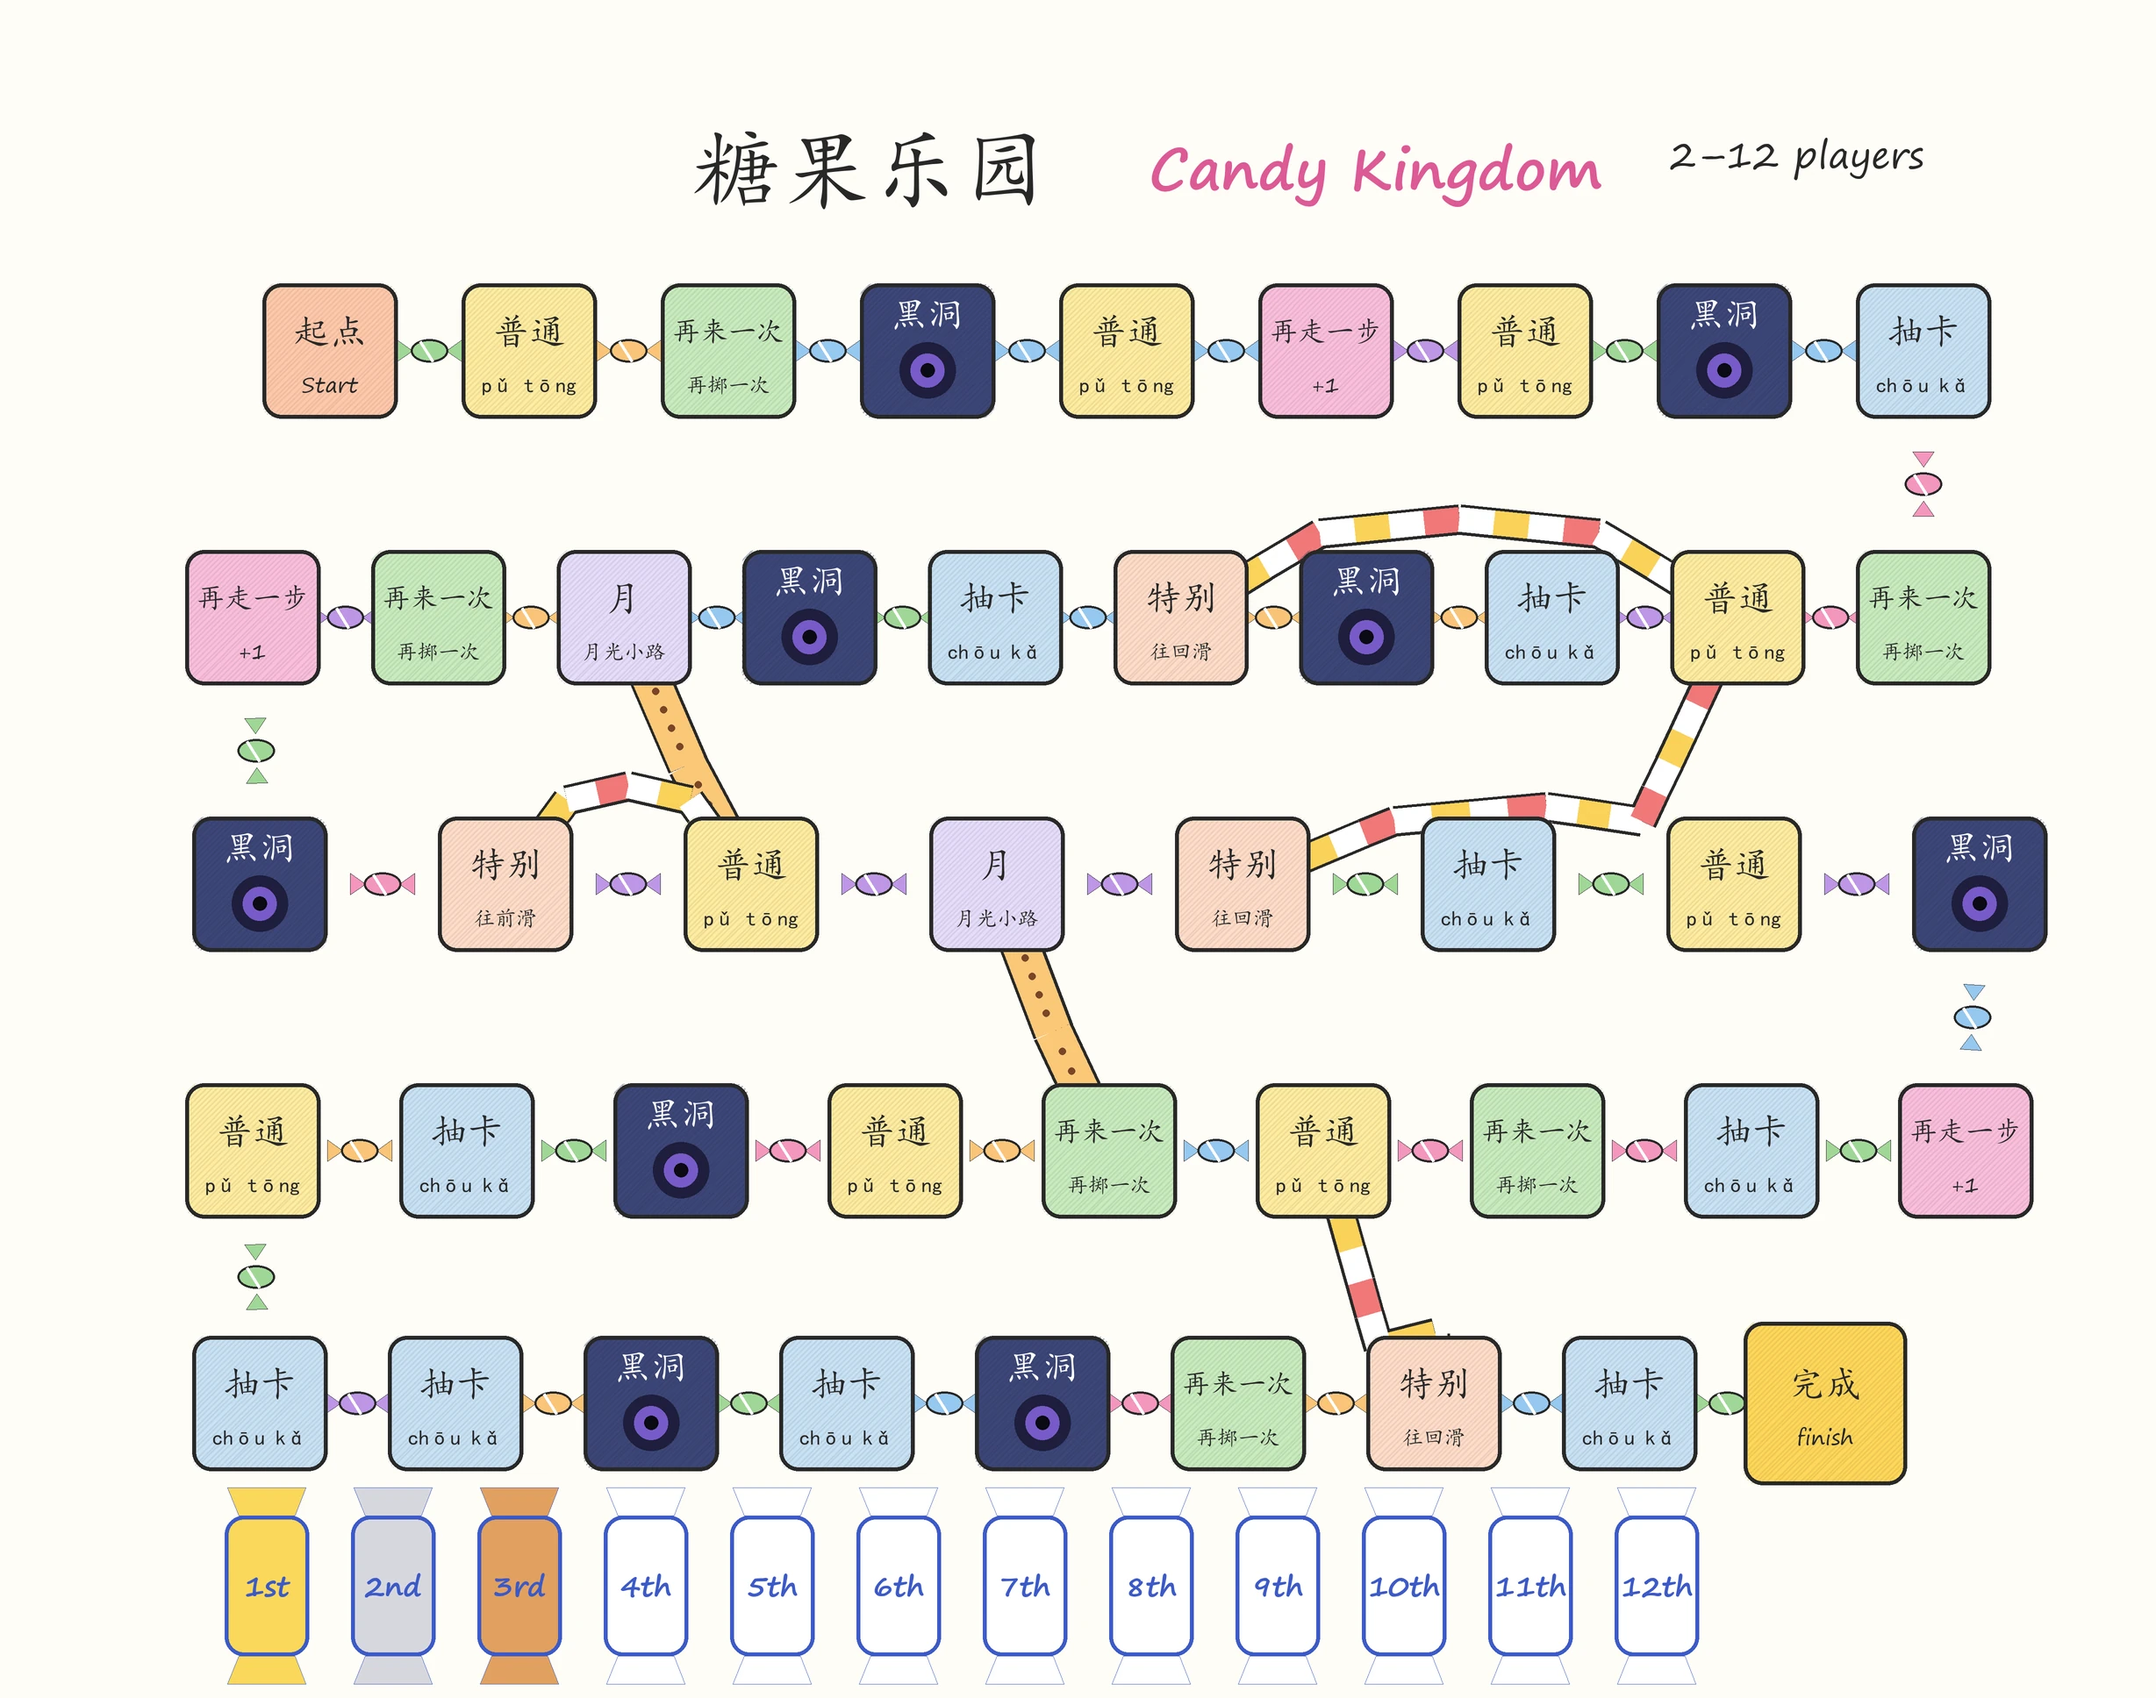
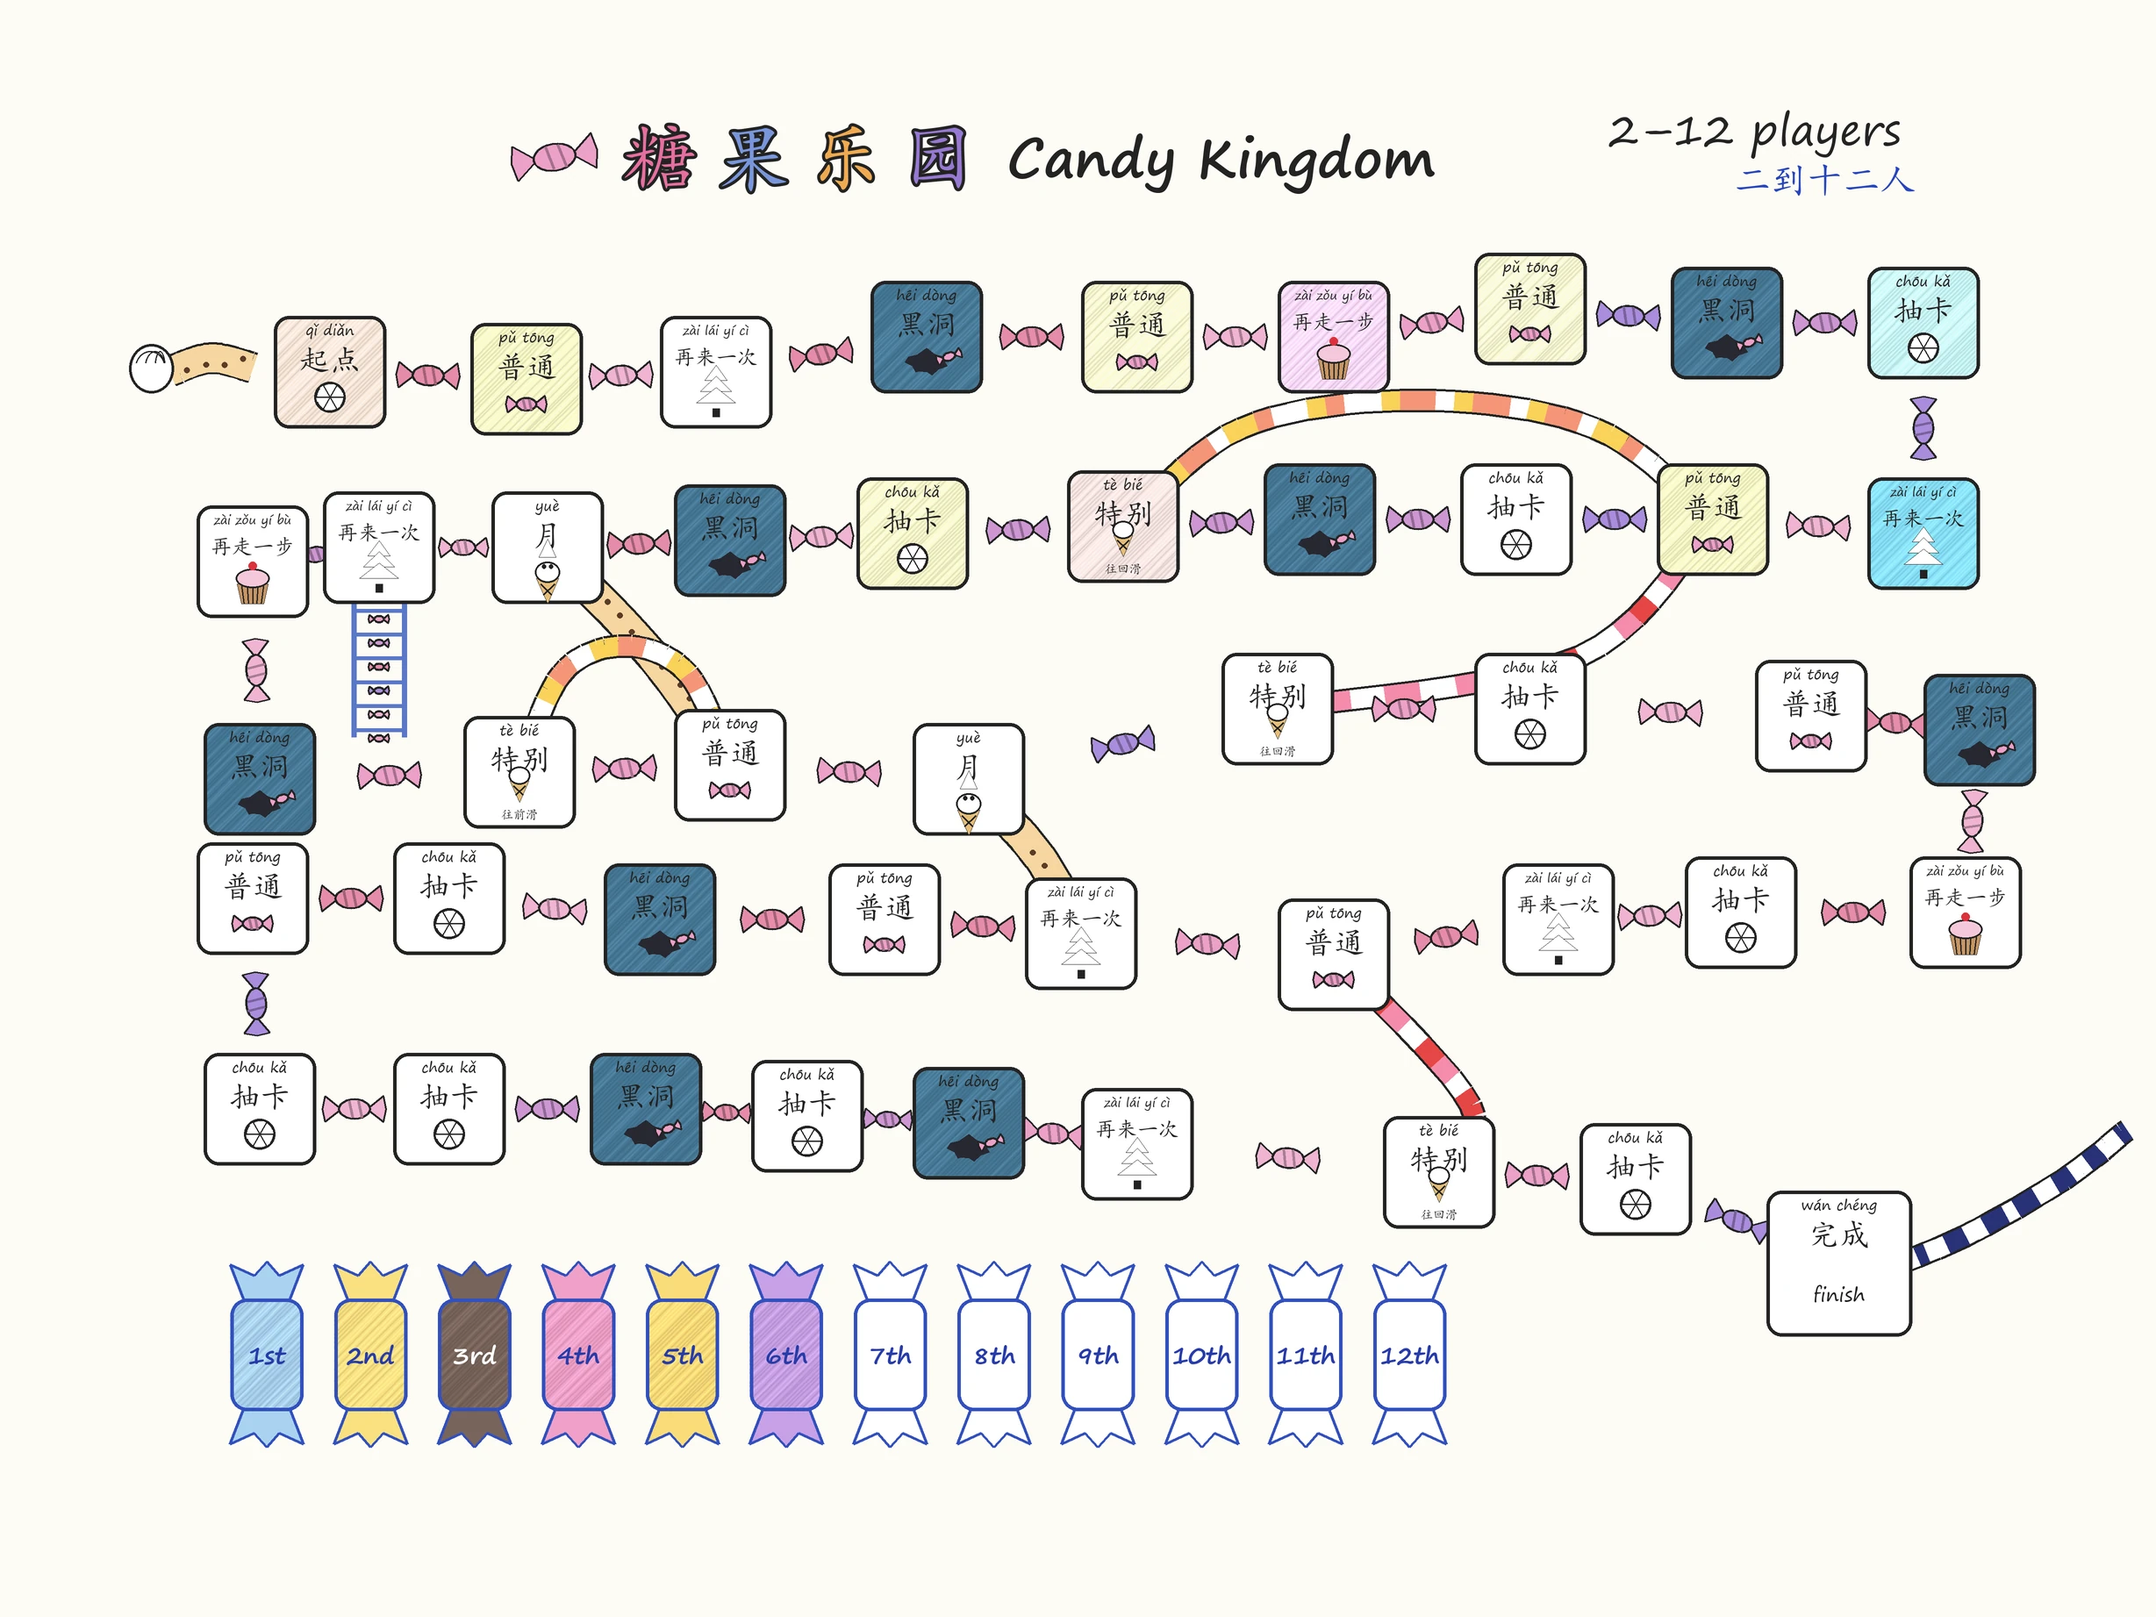
Redraw the 糖果乐园 board closer to the student's drawing
Squares sit where the student drew them, with their little pictures
(cupcake, tree, swirl lollipop, black hole, ice cream, moon face), pinyin
above the characters, the student's colours, twisted candies between
squares, the ladder, ropes and the 1st-12th candies.

diff --git a/src/teachingTools/public/low-prep/sweets/sweets-core.js b/src/teachingTools/public/low-prep/sweets/sweets-core.js
@@ -19,21 +19,21 @@
   'use strict';
 
   var DATA = {
-    frame: [2457, 1936],
+    frame: [2457, 1843],
     board: [
-      [376, 400, "start"], [603, 400, "plain"], [830, 400, "again"], [1057, 400, "hole"], [1284, 400, "plain"],
-      [1511, 400, "step"], [1738, 400, "plain"], [1965, 400, "hole"], [2192, 400, "card"], [2192, 704, "again"],
-      [1980, 704, "plain"], [1769, 704, "card"], [1557, 704, "hole"], [1346, 704, "slide", 10], [1134, 704, "card"],
-      [923, 704, "hole"], [711, 704, "moon", 21], [500, 704, "again"], [288, 704, "step"], [296, 1008, "hole"],
-      [576, 1008, "slide", 21], [856, 1008, "plain"], [1136, 1008, "moon", 31], [1416, 1008, "slide", 10], [1696, 1008, "card"],
-      [1976, 1008, "plain"], [2256, 1008, "hole"], [2240, 1312, "step"], [1996, 1312, "card"], [1752, 1312, "again"],
-      [1508, 1312, "plain"], [1264, 1312, "again"], [1020, 1312, "plain"], [776, 1312, "hole"], [532, 1312, "card"],
-      [288, 1312, "plain"], [296, 1600, "card"], [519, 1600, "card"], [742, 1600, "hole"], [965, 1600, "card"],
-      [1188, 1600, "hole"], [1411, 1600, "again"], [1634, 1600, "slide", 30], [1857, 1600, "card"], [2080, 1600, "finish"]
+      [376, 424, "start"], [600, 432, "plain"], [816, 424, "again"], [1056, 384, "hole"], [1296, 384, "plain"],
+      [1520, 384, "step"], [1744, 352, "plain"], [1968, 368, "hole"], [2192, 368, "card"], [2192, 608, "again"],
+      [1952, 592, "plain"], [1728, 592, "card"], [1504, 592, "hole"], [1280, 600, "slide", 10], [1040, 608, "card"],
+      [832, 616, "hole"], [624, 624, "moon", 21], [432, 624, "again"], [288, 640, "step"], [296, 888, "hole"],
+      [592, 880, "slide", 21], [832, 872, "plain"], [1104, 888, "moon", 31], [1456, 808, "slide", 10], [1744, 808, "card"],
+      [2064, 816, "plain"], [2256, 832, "hole"], [2240, 1040, "step"], [1984, 1040, "card"], [1776, 1048, "again"],
+      [1520, 1088, "plain"], [1232, 1064, "again"], [1008, 1048, "plain"], [752, 1048, "hole"], [512, 1024, "card"],
+      [288, 1024, "plain"], [296, 1264, "card"], [512, 1264, "card"], [736, 1264, "hole"], [920, 1272, "card"],
+      [1104, 1280, "hole"], [1296, 1304, "again"], [1640, 1336, "slide", 30], [1864, 1344, "card"], [2096, 1440, "finish"]
     ],
     rowStart: [0, 0, 0, 0, 0, 0, 0, 0, 0, 9, 9, 9, 9, 9, 9, 9, 9, 9, 9, 19, 19, 19, 19, 19, 19, 19, 19, 27, 27, 27, 27, 27, 27, 27, 27, 27, 36, 36, 36, 36, 36, 36, 36, 36, 36],
     hole: 'row',
-    spots: {jail: [0, 0], podium: [[304, 1808], [448, 1808], [592, 1808]], lots: [[736, 1808], [880, 1808], [1024, 1808]]}
+    spots: {jail: [0, 0], podium: [[304, 1544], [422, 1544], [541, 1544]], lots: [[659, 1544], [778, 1544], [896, 1544]]}
   };
   var FRAME = { w: DATA.frame[0], h: DATA.frame[1] };
   // [x, y, kind, target]  kind: start plain card step again hole slide moon finish

diff --git a/src/teachingTools/public/low-prep/escape-the-path/escape-the-path.js b/src/teachingTools/public/low-prep/escape-the-path/escape-the-path.js
@@ -9,7 +9,7 @@
 
   var Core = window.EscapePathCore;
   var GAMES = { 'escape-the-path': window.EscapePathCore, 'candy-race': window.CandyRaceCore, 'escape-classroom': window.EscapeClassroomCore, 'mochi': window.MochiCore, 'space': window.SpaceCore, 'money': window.MoneyCore, 'mpy': window.MpyCore, 'maze': window.MazeCore, 'sweets': window.SweetsCore };
-  var IMAGES = { 'escape-the-path': '/low-prep/escape-the-path/board.webp?v=3', 'candy-race': '/low-prep/candy-race/board.webp?v=6', 'escape-classroom': '/low-prep/escape-classroom/board.webp?v=3', 'mochi': '/low-prep/mochi/board.webp?v=2', 'space': '/low-prep/space/board.webp?v=1', 'money': '/low-prep/money/board.webp?v=2', 'mpy': '/low-prep/mpy/board.webp?v=1', 'maze': '/low-prep/maze/board.webp?v=1', 'sweets': '/low-prep/sweets/board.webp?v=1' };
+  var IMAGES = { 'escape-the-path': '/low-prep/escape-the-path/board.webp?v=3', 'candy-race': '/low-prep/candy-race/board.webp?v=6', 'escape-classroom': '/low-prep/escape-classroom/board.webp?v=3', 'mochi': '/low-prep/mochi/board.webp?v=2', 'space': '/low-prep/space/board.webp?v=1', 'money': '/low-prep/money/board.webp?v=2', 'mpy': '/low-prep/mpy/board.webp?v=1', 'maze': '/low-prep/maze/board.webp?v=1', 'sweets': '/low-prep/sweets/board.webp?v=2' };
   var NAMES = { 'escape-the-path': 'Escape the Path', 'candy-race': 'Candy Race', 'escape-classroom': 'Escape the Classroom', 'mochi': 'Mochi Salamander Escape', 'space': '太大一', 'money': '汉字大富翁', 'mpy': 'MPY', 'maze': 'Maze 迷宫', 'sweets': '糖果乐园' };
   var G = Core;          // the game being played
   var isCandy = false;
